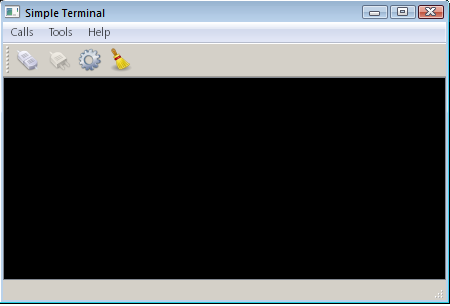
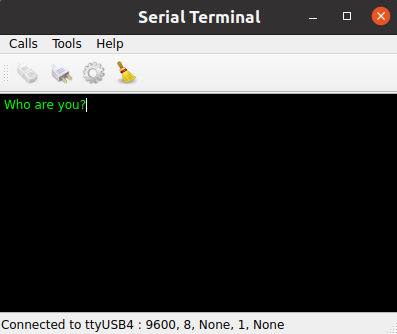
Improve Terminal example
Extend the example to handle bytesWritten() signal. This allows to
demonstrate both async read and async write with one example.
Extend the example description to cover these changes.

Apart from that do some regular cleanups:
* Do not use Example in the name
* Update screenshot
* add Connectivity category

Fixes: QTBUG-108870
Task-number: QTBUG-108868
(cherry picked from commit 811c0f319862f15bfcf5799298e0fbc22516c94c)

diff --git a/examples/serialport/terminal/mainwindow.cpp b/examples/serialport/terminal/mainwindow.cpp
@@ -9,19 +9,25 @@
 
 #include <QLabel>
 #include <QMessageBox>
+#include <QTimer>
+
+#include <chrono>
+
+static constexpr std::chrono::seconds kWriteTimeout = std::chrono::seconds{5};
 
 //! [0]
 MainWindow::MainWindow(QWidget *parent) :
     QMainWindow(parent),
     m_ui(new Ui::MainWindow),
+//! [0]
     m_status(new QLabel),
     m_console(new Console),
-      m_settings(new SettingsDialog(this)),
+    m_settings(new SettingsDialog(this)),
+    m_timer(new QTimer(this)),
 //! [1]
     m_serial(new QSerialPort(this))
-//! [1]
 {
-//! [0]
+//! [1]
     m_ui->setupUi(this);
     m_console->setEnabled(false);
     setCentralWidget(m_console);
@@ -36,9 +42,12 @@ MainWindow::MainWindow(QWidget *parent) :
     initActionsConnections();
 
     connect(m_serial, &QSerialPort::errorOccurred, this, &MainWindow::handleError);
+    connect(m_timer, &QTimer::timeout, this, &MainWindow::handleWriteTimeout);
+    m_timer->setSingleShot(true);
 
 //! [2]
     connect(m_serial, &QSerialPort::readyRead, this, &MainWindow::readData);
+    connect(m_serial, &QSerialPort::bytesWritten, this, &MainWindow::handleBytesWritten);
 //! [2]
     connect(m_console, &Console::getData, this, &MainWindow::writeData);
 //! [3]
@@ -93,8 +102,8 @@ void MainWindow::closeSerialPort()
 
 void MainWindow::about()
 {
-    QMessageBox::about(this, tr("About Simple Terminal"),
-                       tr("The <b>Simple Terminal</b> example demonstrates how to "
+    QMessageBox::about(this, tr("About Serial Terminal"),
+                       tr("The <b>Serial Terminal</b> example demonstrates how to "
                           "use the Qt Serial Port module in modern GUI applications "
                           "using Qt, with a menu bar, toolbars, and a status bar."));
 }
@@ -102,7 +111,16 @@ void MainWindow::about()
 //! [6]
 void MainWindow::writeData(const QByteArray &data)
 {
-    m_serial->write(data);
+    const qint64 written = m_serial->write(data);
+    if (written == data.size()) {
+        m_bytesToWrite += written;
+        m_timer->start(kWriteTimeout);
+    } else {
+        const QString error = tr("Failed to write all data to port %1.\n"
+                                 "Error: %2").arg(m_serial->portName(),
+                                                  m_serial->errorString());
+        showWriteError(error);
+    }
 }
 //! [6]
 
@@ -124,6 +142,23 @@ void MainWindow::handleError(QSerialPort::SerialPortError error)
 }
 //! [8]
 
+//! [9]
+void MainWindow::handleBytesWritten(qint64 bytes)
+{
+    m_bytesToWrite -= bytes;
+    if (m_bytesToWrite == 0)
+        m_timer->stop();
+}
+//! [9]
+
+void MainWindow::handleWriteTimeout()
+{
+    const QString error = tr("Write operation timed out for port %1.\n"
+                             "Error: %2").arg(m_serial->portName(),
+                                              m_serial->errorString());
+    showWriteError(error);
+}
+
 void MainWindow::initActionsConnections()
 {
     connect(m_ui->actionConnect, &QAction::triggered, this, &MainWindow::openSerialPort);
@@ -138,4 +173,9 @@ void MainWindow::initActionsConnections()
 void MainWindow::showStatusMessage(const QString &message)
 {
     m_status->setText(message);
+}
+
+void MainWindow::showWriteError(const QString &message)
+{
+    QMessageBox::warning(this, tr("Warning"), message);
 }

diff --git a/examples/serialport/terminal/mainwindow.h b/examples/serialport/terminal/mainwindow.h
@@ -11,6 +11,7 @@
 QT_BEGIN_NAMESPACE
 
 class QLabel;
+class QTimer;
 
 namespace Ui {
 class MainWindow;
@@ -37,17 +38,22 @@ private slots:
     void readData();
 
     void handleError(QSerialPort::SerialPortError error);
+    void handleBytesWritten(qint64 bytes);
+    void handleWriteTimeout();
 
 private:
     void initActionsConnections();
 
 private:
     void showStatusMessage(const QString &message);
+    void showWriteError(const QString &message);
 
     Ui::MainWindow *m_ui = nullptr;
     QLabel *m_status = nullptr;
     Console *m_console = nullptr;
     SettingsDialog *m_settings = nullptr;
+    qint64 m_bytesToWrite = 0;
+    QTimer *m_timer = nullptr;
     QSerialPort *m_serial = nullptr;
 };
 
